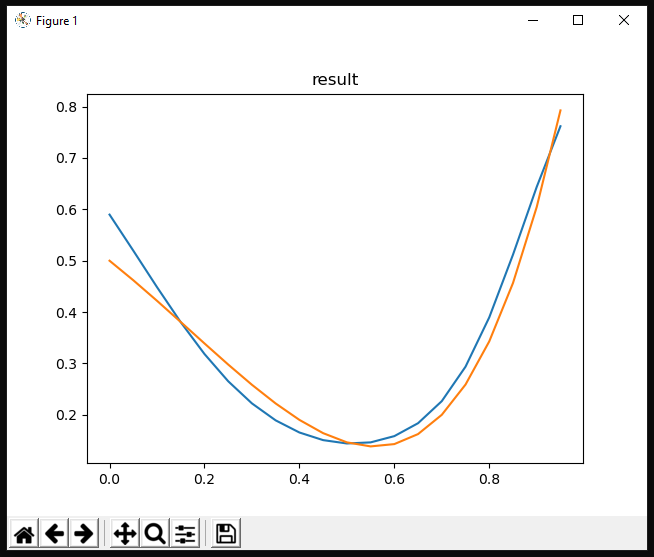
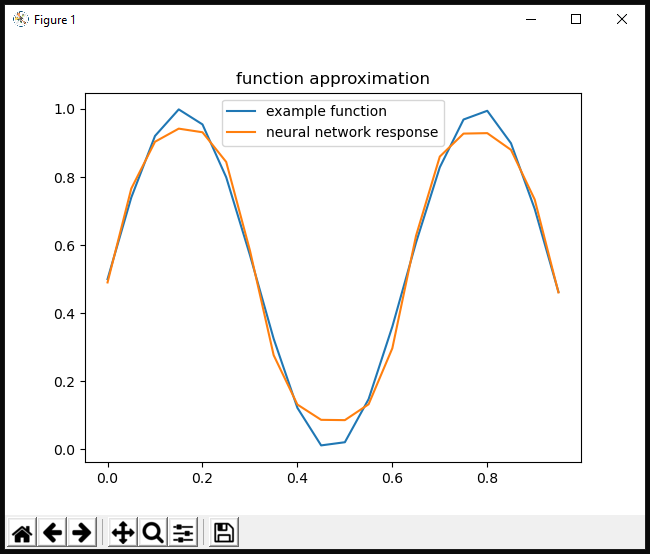
Update example_03

diff --git a/examples/example_03_function_approximation.py b/examples/example_03_function_approximation.py
@@ -2,6 +2,7 @@ from neurobiba import *
 
 import random
 import matplotlib.pyplot as plt
+import math
 
 neural_net = Weights([1, 50, 1], bias = True)
 
@@ -11,22 +12,21 @@ result = []
 dimension = 20
 
 def example_function(x):
-    x = x+0.5
-    return (((4*x**3-6*x**2+1)*(x+1)**0.5)/(3-x)+1)*0.5
+    return (math.sin(x*10)+1)*0.5
     
-for i in range(1000):
+for i in range(10000):
     for u in range(dimension):
         u /= dimension
         neural_net.train([u], [example_function(u)])
 
 for u in range(dimension):
     u /= dimension
-    
     x_axis.append(u)
     dataset.append(example_function(u))
     result.append(neural_net.feed_forward([u])[0])
 
-plt.plot(x_axis, result)
-plt.plot(x_axis, dataset)
-plt.title('result')
+plt.title('function approximation')
+plt.plot(x_axis, dataset, label = 'example function')
+plt.plot(x_axis, result, label = 'neural network response')
+plt.legend()
 plt.show()

diff --git a/neurobiba/__init__.py b/neurobiba/__init__.py
@@ -18,6 +18,7 @@ class Weights():
         size это список слоев с количеством их нейронов.
         bias этот флаг добавляет к каждому слою нейрон смещения.
         name это имя файла в который будет сохранять функция save_weights.
+        activation это объект класса Activation который содержит в себе функцию активации и ее производную
 
         Пример:
         `weights = Weights([3, 10, 10 ,2])`
